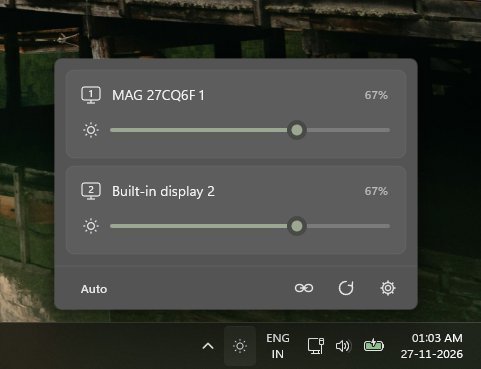
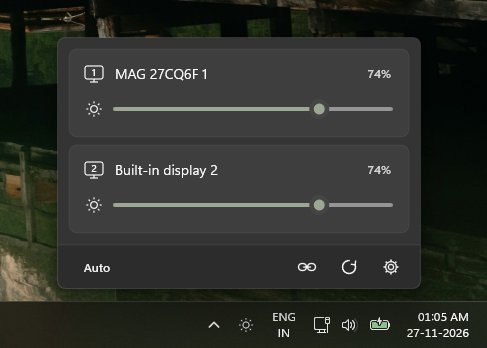
Apply Windows 11 Fluent 2 design tokens and footer surface

diff --git a/src/theme.rs b/src/theme.rs
@@ -19,6 +19,7 @@ pub struct ThemeColors {
     pub accent: D2D1_COLOR_F,
     pub thumb_ring: D2D1_COLOR_F,
     pub divider: D2D1_COLOR_F,
+    pub footer_bg: D2D1_COLOR_F,
     pub button_hover_bg: D2D1_COLOR_F,
 }
 
@@ -28,38 +29,42 @@ impl ThemeColors {
         let accent = read_accent_color(is_dark);
 
         if is_dark {
+            // Microsoft Fluent 2 / WinUI 3 Dark Theme tokens
             Self {
                 is_dark: true,
-                window_bg: D2D1_COLOR_F { r: 0.0, g: 0.0, b: 0.0, a: 0.0 },
-                window_border: D2D1_COLOR_F { r: 1.0, g: 1.0, b: 1.0, a: 0.09 },
-                card_bg: D2D1_COLOR_F { r: 1.0, g: 1.0, b: 1.0, a: 0.055 },
-                card_hover_bg: D2D1_COLOR_F { r: 1.0, g: 1.0, b: 1.0, a: 0.085 },
-                card_border: D2D1_COLOR_F { r: 1.0, g: 1.0, b: 1.0, a: 0.05 },
-                text_primary: D2D1_COLOR_F { r: 0.96, g: 0.96, b: 0.96, a: 1.0 },
-                text_secondary: D2D1_COLOR_F { r: 0.72, g: 0.72, b: 0.72, a: 1.0 },
-                icon_color: D2D1_COLOR_F { r: 0.90, g: 0.90, b: 0.90, a: 1.0 },
-                slider_track_bg: D2D1_COLOR_F { r: 0.52, g: 0.52, b: 0.52, a: 0.75 },
+                window_bg: D2D1_COLOR_F { r: 0.025, g: 0.025, b: 0.025, a: 0.42 },
+                window_border: D2D1_COLOR_F { r: 1.0, g: 1.0, b: 1.0, a: 0.085 },
+                card_bg: D2D1_COLOR_F { r: 1.0, g: 1.0, b: 1.0, a: 0.0512 },
+                card_hover_bg: D2D1_COLOR_F { r: 1.0, g: 1.0, b: 1.0, a: 0.075 },
+                card_border: D2D1_COLOR_F { r: 1.0, g: 1.0, b: 1.0, a: 0.0578 },
+                text_primary: D2D1_COLOR_F { r: 1.0, g: 1.0, b: 1.0, a: 1.0 },
+                text_secondary: D2D1_COLOR_F { r: 1.0, g: 1.0, b: 1.0, a: 0.786 },
+                icon_color: D2D1_COLOR_F { r: 1.0, g: 1.0, b: 1.0, a: 0.92 },
+                slider_track_bg: D2D1_COLOR_F { r: 1.0, g: 1.0, b: 1.0, a: 0.45 },
                 accent,
-                thumb_ring: D2D1_COLOR_F { r: 0.28, g: 0.29, b: 0.27, a: 1.0 },
-                divider: D2D1_COLOR_F { r: 1.0, g: 1.0, b: 1.0, a: 0.07 },
-                button_hover_bg: D2D1_COLOR_F { r: 1.0, g: 1.0, b: 1.0, a: 0.09 },
+                thumb_ring: D2D1_COLOR_F { r: 0.27, g: 0.27, b: 0.27, a: 1.0 },
+                divider: D2D1_COLOR_F { r: 1.0, g: 1.0, b: 1.0, a: 0.075 },
+                footer_bg: D2D1_COLOR_F { r: 0.0, g: 0.0, b: 0.0, a: 0.16 },
+                button_hover_bg: D2D1_COLOR_F { r: 1.0, g: 1.0, b: 1.0, a: 0.0837 },
             }
         } else {
+            // Microsoft Fluent 2 / WinUI 3 Light Theme tokens
             Self {
                 is_dark: false,
-                window_bg: D2D1_COLOR_F { r: 0.0, g: 0.0, b: 0.0, a: 0.0 },
+                window_bg: D2D1_COLOR_F { r: 0.95, g: 0.95, b: 0.95, a: 0.55 },
                 window_border: D2D1_COLOR_F { r: 0.0, g: 0.0, b: 0.0, a: 0.08 },
-                card_bg: D2D1_COLOR_F { r: 1.0, g: 1.0, b: 1.0, a: 0.65 },
+                card_bg: D2D1_COLOR_F { r: 1.0, g: 1.0, b: 1.0, a: 0.70 },
                 card_hover_bg: D2D1_COLOR_F { r: 1.0, g: 1.0, b: 1.0, a: 0.85 },
-                card_border: D2D1_COLOR_F { r: 0.0, g: 0.0, b: 0.0, a: 0.06 },
-                text_primary: D2D1_COLOR_F { r: 0.10, g: 0.10, b: 0.10, a: 1.0 },
-                text_secondary: D2D1_COLOR_F { r: 0.38, g: 0.38, b: 0.38, a: 1.0 },
-                icon_color: D2D1_COLOR_F { r: 0.18, g: 0.18, b: 0.18, a: 1.0 },
-                slider_track_bg: D2D1_COLOR_F { r: 0.55, g: 0.55, b: 0.55, a: 0.55 },
+                card_border: D2D1_COLOR_F { r: 0.0, g: 0.0, b: 0.0, a: 0.0578 },
+                text_primary: D2D1_COLOR_F { r: 0.0, g: 0.0, b: 0.0, a: 0.895 },
+                text_secondary: D2D1_COLOR_F { r: 0.0, g: 0.0, b: 0.0, a: 0.606 },
+                icon_color: D2D1_COLOR_F { r: 0.0, g: 0.0, b: 0.0, a: 0.85 },
+                slider_track_bg: D2D1_COLOR_F { r: 0.0, g: 0.0, b: 0.0, a: 0.445 },
                 accent,
-                thumb_ring: D2D1_COLOR_F { r: 0.98, g: 0.98, b: 0.98, a: 1.0 },
-                divider: D2D1_COLOR_F { r: 0.0, g: 0.0, b: 0.0, a: 0.07 },
-                button_hover_bg: D2D1_COLOR_F { r: 0.0, g: 0.0, b: 0.0, a: 0.06 },
+                thumb_ring: D2D1_COLOR_F { r: 1.0, g: 1.0, b: 1.0, a: 1.0 },
+                divider: D2D1_COLOR_F { r: 0.0, g: 0.0, b: 0.0, a: 0.0578 },
+                footer_bg: D2D1_COLOR_F { r: 0.0, g: 0.0, b: 0.0, a: 0.035 },
+                button_hover_bg: D2D1_COLOR_F { r: 0.0, g: 0.0, b: 0.0, a: 0.05 },
             }
         }
     }

diff --git a/src/ui.rs b/src/ui.rs
@@ -602,8 +602,18 @@ impl Renderer {
                 }
             }
 
-            // Bottom toolbar divider
+            // Bottom toolbar footer surface & hairline divider (Fluent 2 flyout pattern)
             let div_y = total_h - TOOLBAR_HEIGHT;
+            let brush_footer = rt.CreateSolidColorBrush(&theme.footer_bg, None)?;
+            ctx.FillRectangle(
+                &D2D_RECT_F {
+                    left: 0.0,
+                    top: div_y,
+                    right: FLYOUT_WIDTH_DIP,
+                    bottom: total_h,
+                },
+                &brush_footer,
+            );
             ctx.DrawLine(
                 D2D_POINT_2F { x: 0.0, y: div_y },
                 D2D_POINT_2F { x: FLYOUT_WIDTH_DIP, y: div_y },
